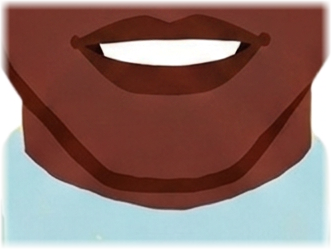
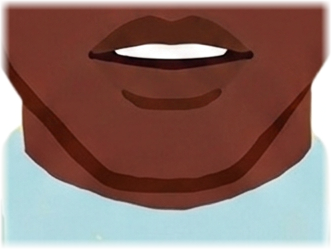
Give the shipped face the four mouths it never had
The audit's finding 0, closed. public/faces/ carried six mouth patches and the
pose vocabulary has ten, so Face.tsx quietly drew `ee` for every `st` and `fv`
and the portrait's own still mouth for every `smile` -- which meant a quarter of
all marks rendering as the one pose `st` was added to escape, on the face every
browser wears before anyone picks anything.

st, fv, laugh and smile are new, and ee was regenerated in the same pass.
Measured with patchDivergence over the mouth box, the way the page measures it:

  st vs ee    15.21%   (the previous kit shipped this pair at 3.2%)
  fv vs ee     7.26%   (previously 2.8%)
  st vs fv    11.70%
  rest vs smile 2.02%  -- under the 4% floor, and known

Worth recording how st earns that number, because it is not how the prompt says
it should. ST_NARROWS spends the difference on inward corner travel; this
drawing is barely narrower than ee and carries the whole separation on the
second band of lower teeth instead. That is what the audit argued the pose
should do, arrived at by the generator rather than by editing the prompt.

smile against rest is the one pair under the floor. A closed-lipped smile drawn
from a closed mouth is the hardest pair in the kit, and 2.02% is still an
improvement on no patch at all -- POSE_FALLBACK has no smile entry, so what
showed before was the base portrait. Left as it is, flagged in the audit, worth
another attempt when someone is in there anyway.
[…]

Changed region(s): [[0.2115, 0.0562, 0.8157, 0.4498]]

diff --git a/docs/viseme-audit.md b/docs/viseme-audit.md
@@ -122,6 +122,18 @@ default face until that is done.
 the filmstrip rather than on the still metric. No code change beyond two manifest
 entries.
 
+> **Closed, 2026-08-31.** The shipped kit now carries all ten mouth poses. Measured with
+> the same `patchDivergence` the page uses, `st` sits at **15.21%** against `ee` — the
+> previous kit shipped at 3.2% — and `fv` at **7.26%**, against a 4% floor. The generated
+> `st` carries its separation entirely on the second band of lower teeth rather than on
+> width, which is what finding 1 argued for, reached without editing `ST_NARROWS`.
+>
+> `laugh` and `smile` arrived in the same pass and were also absent before. `smile`
+> against `rest` measures **2.02%**, under the floor: a closed-lipped smile drawn from a
+> closed mouth is the hardest pair in the kit, and it is still an improvement on no patch
+> at all, which painted the portrait's own mouth. Worth regenerating when convenient.
+> `POSE_FALLBACK` should no longer fire for any pose on this face.
+
 ### 1. `st` invents inward corner movement to distinguish the artwork
 
 **Affected phones:** `/s z t d n l θ ð/` and mapped variants.  
